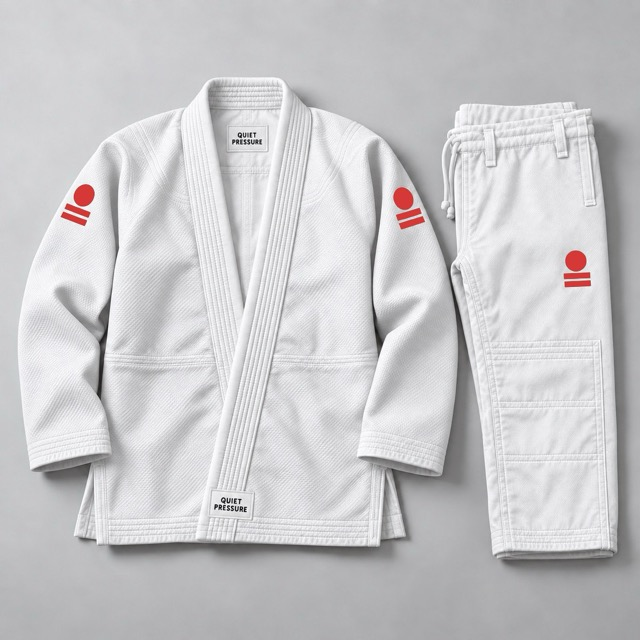
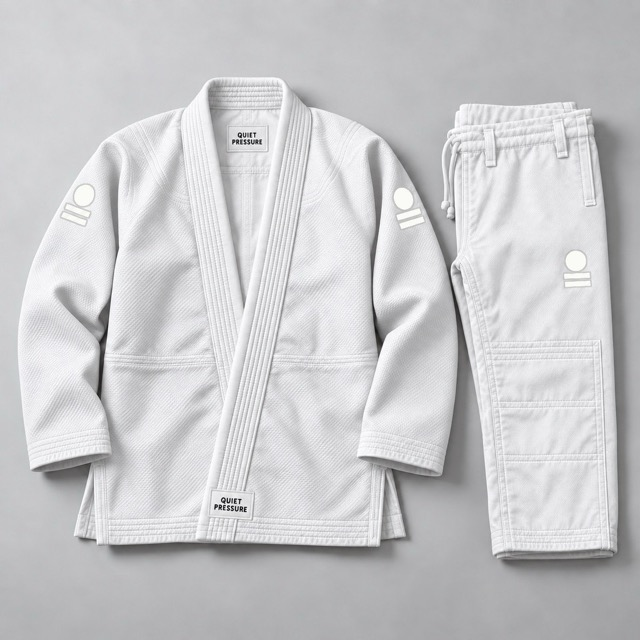
Quiet Pressure ad: white gi with white patches (red option dropped)

Changed region(s): [[0.875, 0.375, 0.9375, 0.4688], [0.0938, 0.2812, 0.1562, 0.375], [0.5938, 0.2812, 0.6562, 0.375]]

diff --git a/components/QuietPressureAd.tsx b/components/QuietPressureAd.tsx
@@ -16,7 +16,7 @@ export default function QuietPressureAd() {
       {/* eslint-disable-next-line @next/next/no-img-element */}
       <img
         src="/ads/quiet-pressure.jpg"
-        alt="White Quiet Pressure gi with red patches"
+        alt="White Quiet Pressure gi with white patches"
         width={640}
         height={640}
         loading="lazy"
